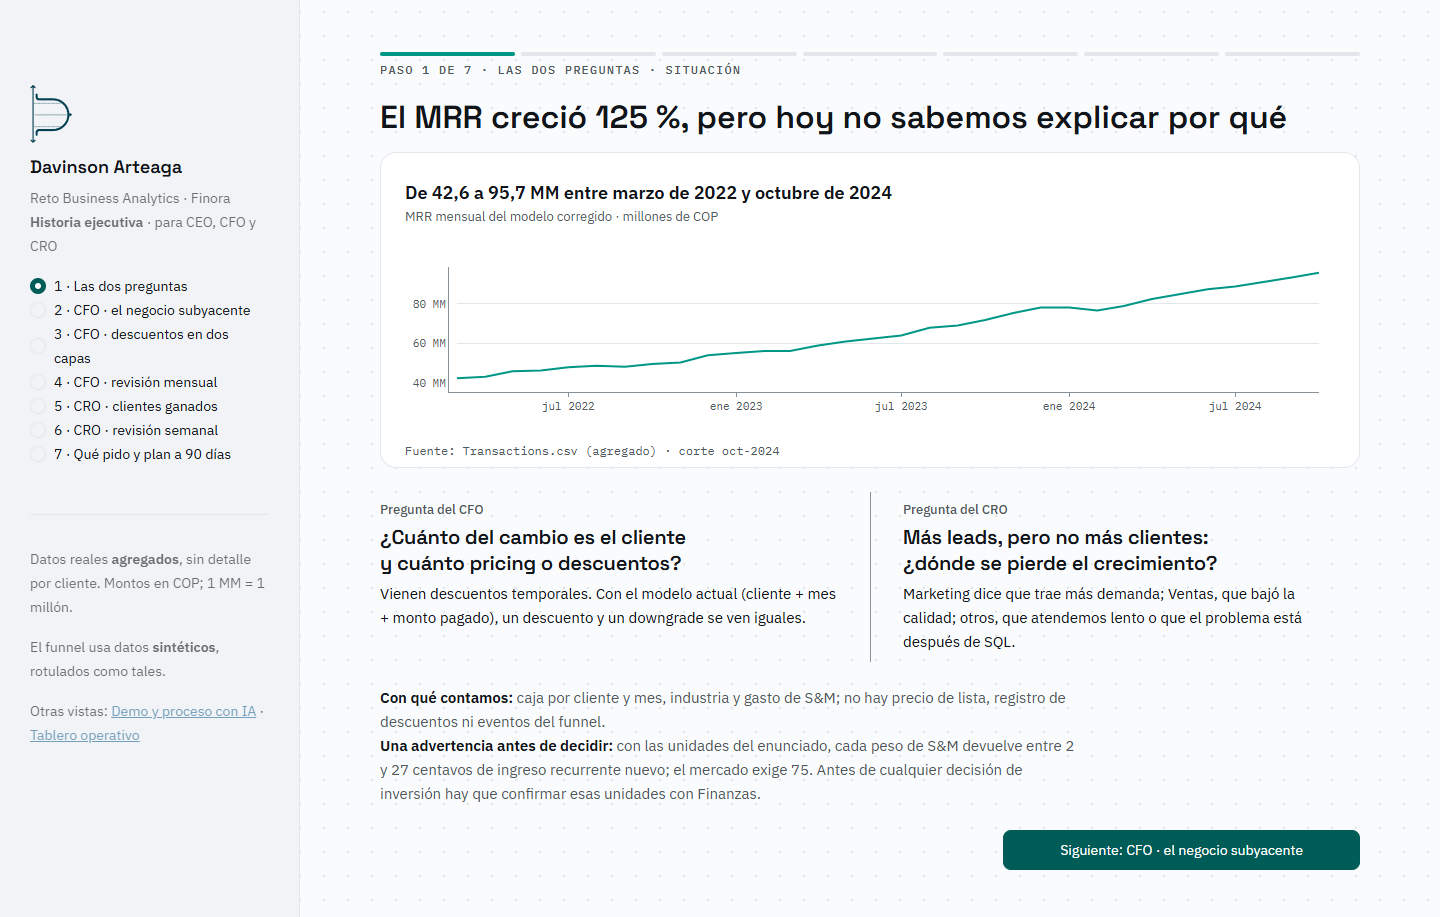
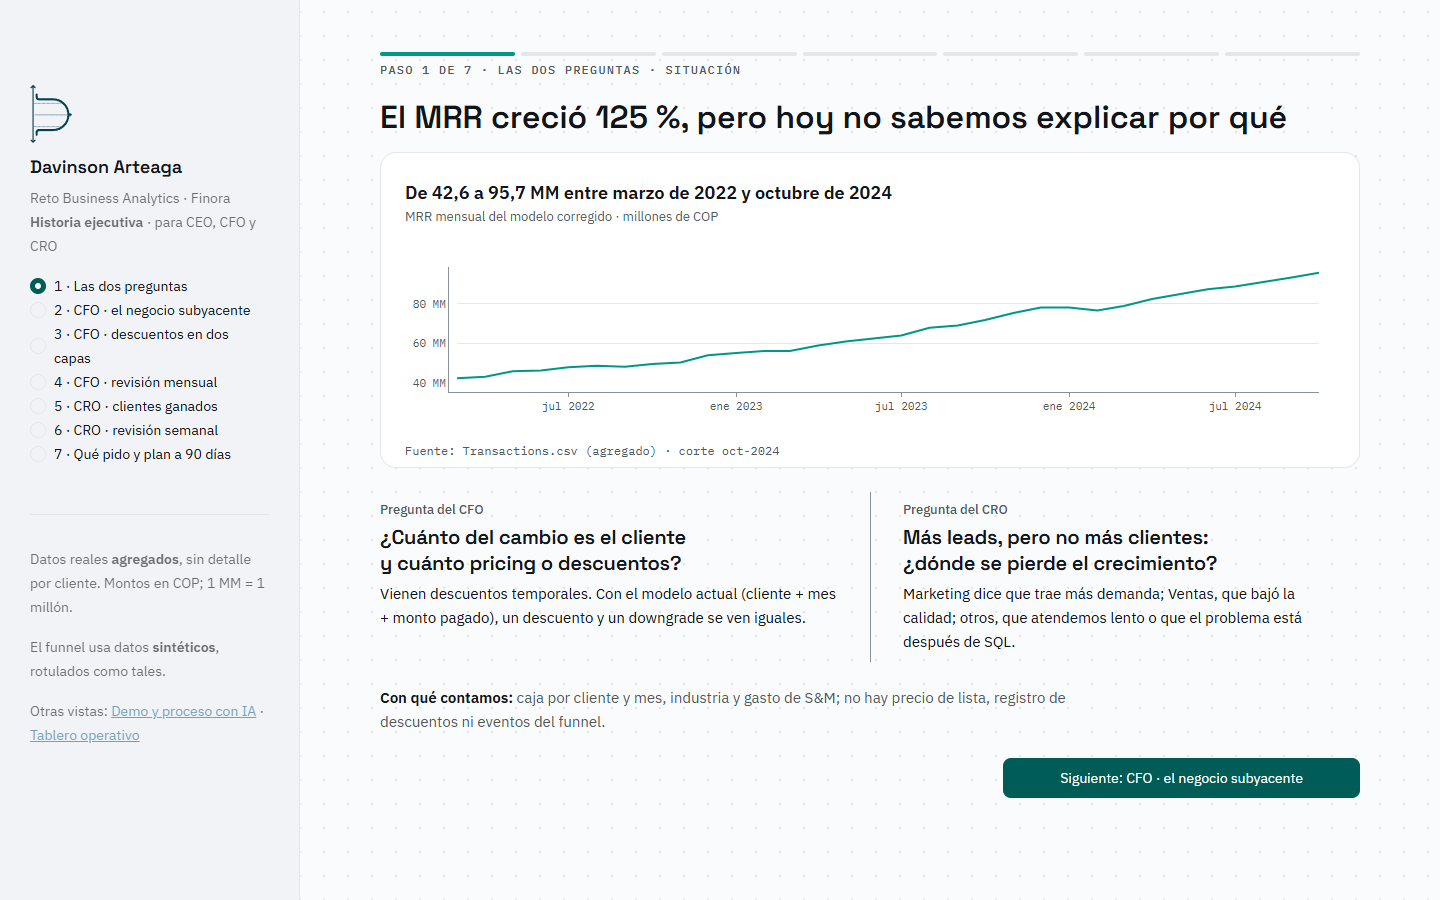
Refactor documentation and code comments for clarity and consistency across multiple files

diff --git a/app/historia.py b/app/historia.py
@@ -25,7 +25,7 @@ from finora.two_layer import two_layer_movements
 
 SCREENS = ["1 · Las dos preguntas", "2 · CFO · el negocio subyacente", "3 · CFO · descuentos en dos capas",
            "4 · CFO · revisión mensual", "5 · CRO · clientes ganados", "6 · CRO · revisión semanal",
-           "7 · Qué pido y plan a 90 días"]
+           "7 · Plan a 90 días"]
 STAGE = ["Situación", "Hallazgo", "Implicación y decisión", "Acción", "Hallazgo", "Acción", "Decisión y acción"]
 T, section = C.page("historia", SCREENS, "para CEO, CFO y CRO")
 NAME = {COR: "Modelo corregido", ACT: "Modelo actual (caja)"}

diff --git a/AI_LOG.md b/AI_LOG.md
@@ -27,3 +27,4 @@
 | 2026-10-03 | Claude Code | Historia ejecutiva en 7 pasos guiados por las dos preguntas (CFO: negocio subyacente, dos capas, revisión mensual; CRO: clientes ganados, revisión semanal; plan a 90 días), con resúmenes compactos del tablero | `app/historia.py`, `app/operar.py` (modo `compact` en las dos revisiones, sin duplicar código), `tests/test_app.py` (7 pantallas, 62 pruebas), guion del video 1, capturas y docs | Prueba automática de cada paso y de los botones; captura de los 7 pasos a 1440 × 900 y revisión visual; las cifras del paso 4 son las del tablero mensual (misma tabla agregada). | Dos errores atrapados: un anclaje ambiguo del parche tomó la definición de `pager()` en vez de la llamada final (se restauró desde git); y `avg12` quedó definida dentro del bloque que el modo compacto omite (UnboundLocalError en el paso 4; la prueba lo detectó y se movió la definición). Los pasos 4 y 6 superan una pantalla: se graban desplazando. |
 | 2026-10-03 | Claude Code | Tablero operativo simplificado con la regla 3-30-300: línea de estado, 4 KPI, una fila (gráfico central + lectura) y el resto plegado; formato 6-12 fijo de 4 entradas; fondo liso, una fuente por página | `app/operar.py` (reescrito), `app/brand.py` (tarjetas sin borde), `app/common.py` (estilos del tablero), `docs/diseno_dashboard.md`, capturas | Captura completa de las dos páginas antes y después: la mensual pasa de 2,5 pantallas y 8 gráficos a 1 pantalla y 1 gráfico visible; la semanal, de 9 gráficos y 2 tablas a 1 árbol, 4 minigráficos y una tabla corta. 62 pruebas. | Se eliminaron redundancias: el churn en confirmación aparecía 4 veces y la señal de cada métrica, 3 o 4. El gráfico de S&M del mes y el de mezcla frente a tasa se quitaron (una frase los reemplaza). |
 | 2026-10-03 | Claude Code + Power BI Authoring MCP (Microsoft, 1.0) | Equivalente del tablero en Power BI (PBIP): modelo semántico y dos páginas, sobre las mismas tablas agregadas | `dashboard/equivalent_dashboard.pbip` (modelo TMDL: 13 tablas, parámetro de ruta, 8 relaciones, 76 medidas DAX; reporte PBIR: 66 visuales generados por `dashboard/build_report.py`), 4 tablas agregadas nuevas en `app/data/` (XmR mensual, funnel XmR, estancados, mezcla), `tests/test_powerbi.py` (+3, 65 en total) | Consultas DAX vía MCP contra el modelo abierto en Desktop: MRR 95,7; neto +2,4; cliente +2,0 / pricing +0,4; mora 3,1 MM en 46 clientes (3,2 %); acumulados de la ventana iguales a key_figures.csv (nuevos 66,8, churn −18,0, reactivación 5,9, cliente 51,5); magic number 0,11. Capturas de la ventana de Desktop en cada ciclo. La prueba nueva verifica que cada visual referencia campos existentes del modelo y que el modelo lee app/data. | Errores atrapados: (1) una medida usada como filtro booleano dentro de CALCULATE (no permitido en DAX); (2) MAX sobre una columna booleana; (3) `post` es palabra reservada en DAX; (4) las tarjetas no respetan el escalado del formato («95.704.590,9,, MM»): los KPI pasaron a medidas de texto; (5) el segmentador de mes filtraba las series XmR: se excluyó con interacciones de página; (6) los formatos dinámicos rompían las tarjetas: se retiraron. Decisiones: las señales XmR se precalculan en Python y se cargan como tabla (un solo motor); el árbol de métricas se sustituye por una tabla con estado. |
+| 2026-10-03 | Claude Code | Limpieza de la historia ejecutiva: fuera la advertencia del S&M (paso 1), el pie de sensibilidad (paso 2) y los recuadros «Lo que pido hoy» y «Lo que no decidiría» (paso 7); guion del video 1 reescrito en tono natural con explicaciones rápidas marcadas como recortables | `app/historia.py`, `tests/test_app.py`, guion del video 1, capturas 1, 2 y 7 | Pruebas de la historia en verde; conteo del guion: 876 palabras completo (6:15) y 679 sin recortables (4:51 a 140 ppm). | Primer parche tomó la definición de `pager()` como ancla (mismo error que en la reestructuración); se restauró desde git y se usó la última aparición. |

diff --git a/docs/diseno_dashboard.md b/docs/diseno_dashboard.md
@@ -28,7 +28,7 @@ Tres apps, una por **uso**, sobre el mismo motor y las mismas tablas agregadas (
 
 | App | Vista | Público | Decisión | Cadencia |
 |---|---|---|---|---|
-| **Historia ejecutiva** (`historia.py`) | 7 pantallas guiadas por las dos preguntas: las dos preguntas; CFO (negocio subyacente, dos capas, revisión mensual compacta); CRO (clientes ganados, revisión semanal compacta); qué pido y plan a 90 días | CEO, CRO, CFO, evaluadores | Aprobar las 3 decisiones (MRR en dos capas, separar caja de MRR, instrumentar el funnel) | Una vez (video 1) |
+| **Historia ejecutiva** (`historia.py`) | 7 pantallas guiadas por las dos preguntas: las dos preguntas; CFO (negocio subyacente, dos capas, revisión mensual compacta); CRO (clientes ganados, revisión semanal compacta); plan a 90 días | CEO, CRO, CFO, evaluadores | Aprobar las 3 decisiones (MRR en dos capas, separar caja de MRR, instrumentar el funnel) | Una vez (video 1) |
 | **Tablero operativo** (`tablero.py`) | **Revisión mensual del MRR** | CFO + RevOps | ¿El cambio del mes es señal o ruido? ¿Quién investiga qué? | Mensual, en el cierre |
 | **Tablero operativo** (`tablero.py`) | **Revisión semanal del funnel** (prototipo sintético) | CRO + líderes SDR/AE | ¿Qué entrada se salió de lo normal? ¿Capacidad, mezcla o post-SQL? | Semanal, 30 minutos |
 | **Demo y proceso con IA** (`demo.py`) | Proceso con IA paso a paso | Evaluadores, Analítica | Confiar (o no) en el método: qué hizo la IA, qué decidí yo, cómo se verificó | Una vez (video 2) |

diff --git a/README.md b/README.md
@@ -8,7 +8,7 @@ Tres apps, una por uso, sobre el mismo motor y las mismas tablas agregadas:
 
 | App | Para qué | Link |
 |---|---|---|
-| **Historia ejecutiva** (`app/historia.py`) | Video 1: las dos preguntas; el CFO (negocio subyacente, descuentos en dos capas, revisión mensual); el CRO (clientes ganados, revisión semanal); qué pido y plan a 90 días | [finora-historia](https://finora-historia.streamlit.app/) |
+| **Historia ejecutiva** (`app/historia.py`) | Video 1: las dos preguntas; el CFO (negocio subyacente, descuentos en dos capas, revisión mensual); el CRO (clientes ganados, revisión semanal); plan a 90 días | [finora-historia](https://finora-historia.streamlit.app/) |
 | **Demo y proceso con IA** (`app/demo.py`) | Video 2: cómo trabajé con IA y el análisis completo de los dos casos | [finora-demo](https://finora-demo.streamlit.app/) |
 | **Tablero operativo** (`app/tablero.py`) | Revisiones futuras: mensual del MRR (CFO) y semanal del funnel (CRO) | [finora-tablero](https://finora-tablero.streamlit.app/) |
 | **Equivalente en Power BI** (`dashboard/equivalent_dashboard.pbip`) | Las mismas dos revisiones en Power BI Desktop: modelo TMDL (13 tablas, 76 medidas DAX) y reporte PBIR generado por `dashboard/build_report.py` sobre los mismos agregados | capturas en `docs/capturas/` |

diff --git a/docs/plantillas/README.md b/docs/plantillas/README.md
@@ -8,7 +8,7 @@ Tres apps, una por uso, sobre el mismo motor y las mismas tablas agregadas:
 
 | App | Para qué | Link |
 |---|---|---|
-| **Historia ejecutiva** (`app/historia.py`) | Video 1: las dos preguntas; el CFO (negocio subyacente, descuentos en dos capas, revisión mensual); el CRO (clientes ganados, revisión semanal); qué pido y plan a 90 días | [finora-historia](https://finora-historia.streamlit.app/) |
+| **Historia ejecutiva** (`app/historia.py`) | Video 1: las dos preguntas; el CFO (negocio subyacente, descuentos en dos capas, revisión mensual); el CRO (clientes ganados, revisión semanal); plan a 90 días | [finora-historia](https://finora-historia.streamlit.app/) |
 | **Demo y proceso con IA** (`app/demo.py`) | Video 2: cómo trabajé con IA y el análisis completo de los dos casos | [finora-demo](https://finora-demo.streamlit.app/) |
 | **Tablero operativo** (`app/tablero.py`) | Revisiones futuras: mensual del MRR (CFO) y semanal del funnel (CRO) | [finora-tablero](https://finora-tablero.streamlit.app/) |
 | **Equivalente en Power BI** (`dashboard/equivalent_dashboard.pbip`) | Las mismas dos revisiones en Power BI Desktop: modelo TMDL (13 tablas, 76 medidas DAX) y reporte PBIR generado por `dashboard/build_report.py` sobre los mismos agregados | capturas en `docs/capturas/` |

diff --git a/docs/capturas/README.md b/docs/capturas/README.md
@@ -10,7 +10,7 @@ muestran cada vista tal como está publicada. Ancho 1440 px, tema claro, corte d
 4. [CFO: revisión mensual (resumen)](historia_4_cfo_revision_mensual.png)
 5. [CRO: clientes ganados](historia_5_cro_clientes_ganados.png)
 6. [CRO: revisión semanal (resumen, datos sintéticos)](historia_6_cro_revision_semanal.png)
-7. [Qué pido y plan a 90 días](historia_7_plan_90_dias.png)
+7. [Plan a 90 días](historia_7_plan_90_dias.png)
 
 **Demo y proceso con IA** ([app](https://finora-demo.streamlit.app/)), video 2.
 1. [Proceso: cómo trabajé con IA](demo_1_proceso_con_ia.png)
